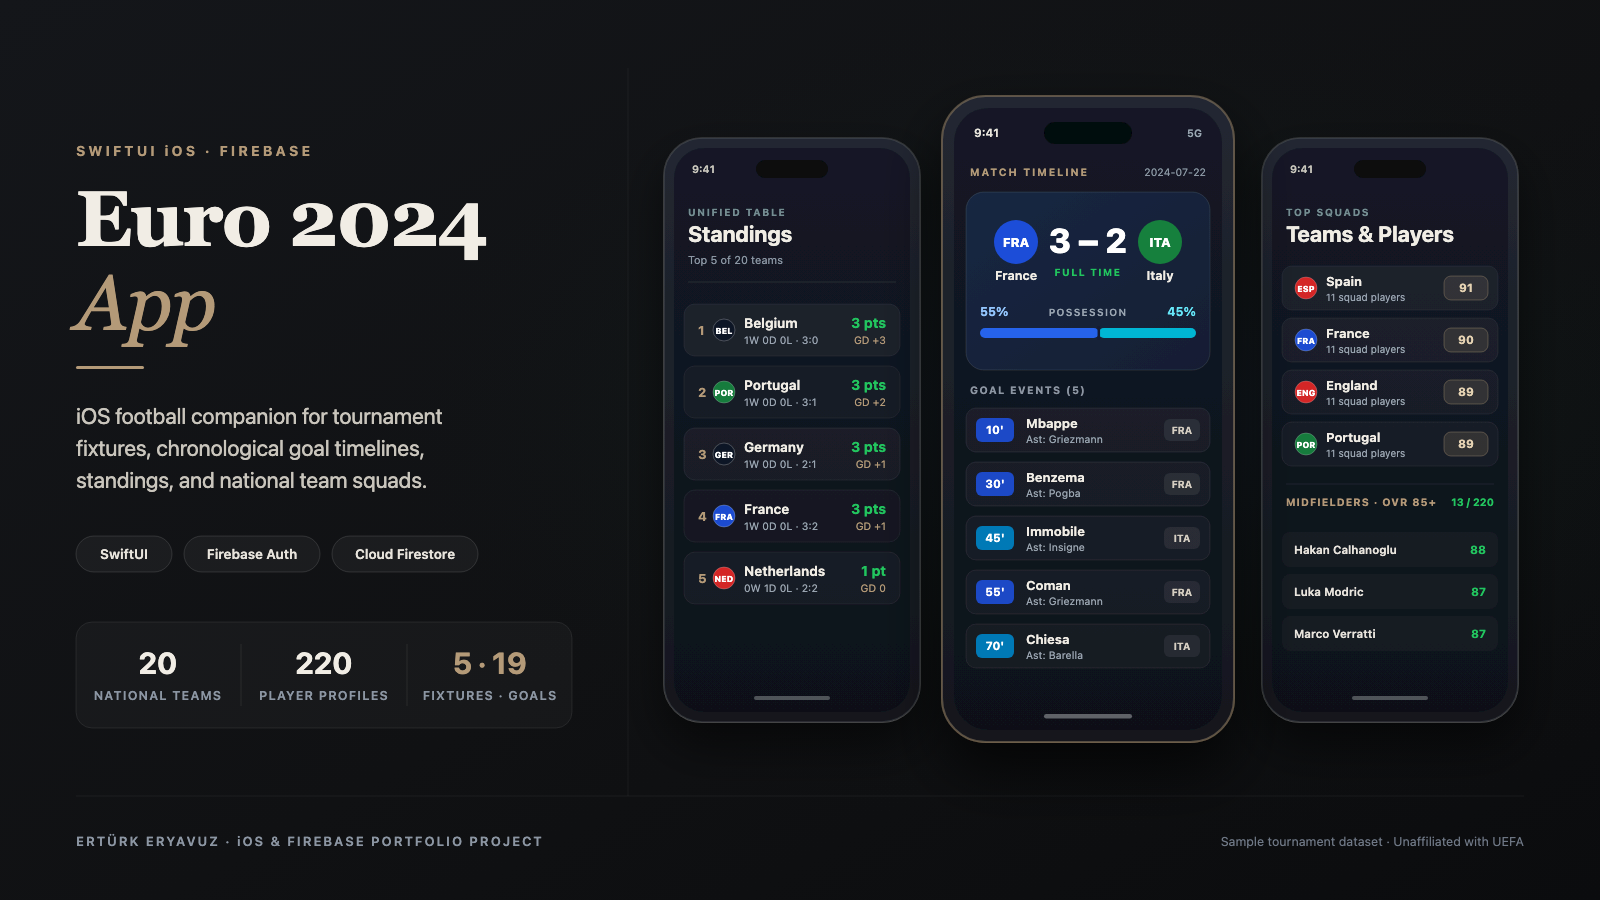
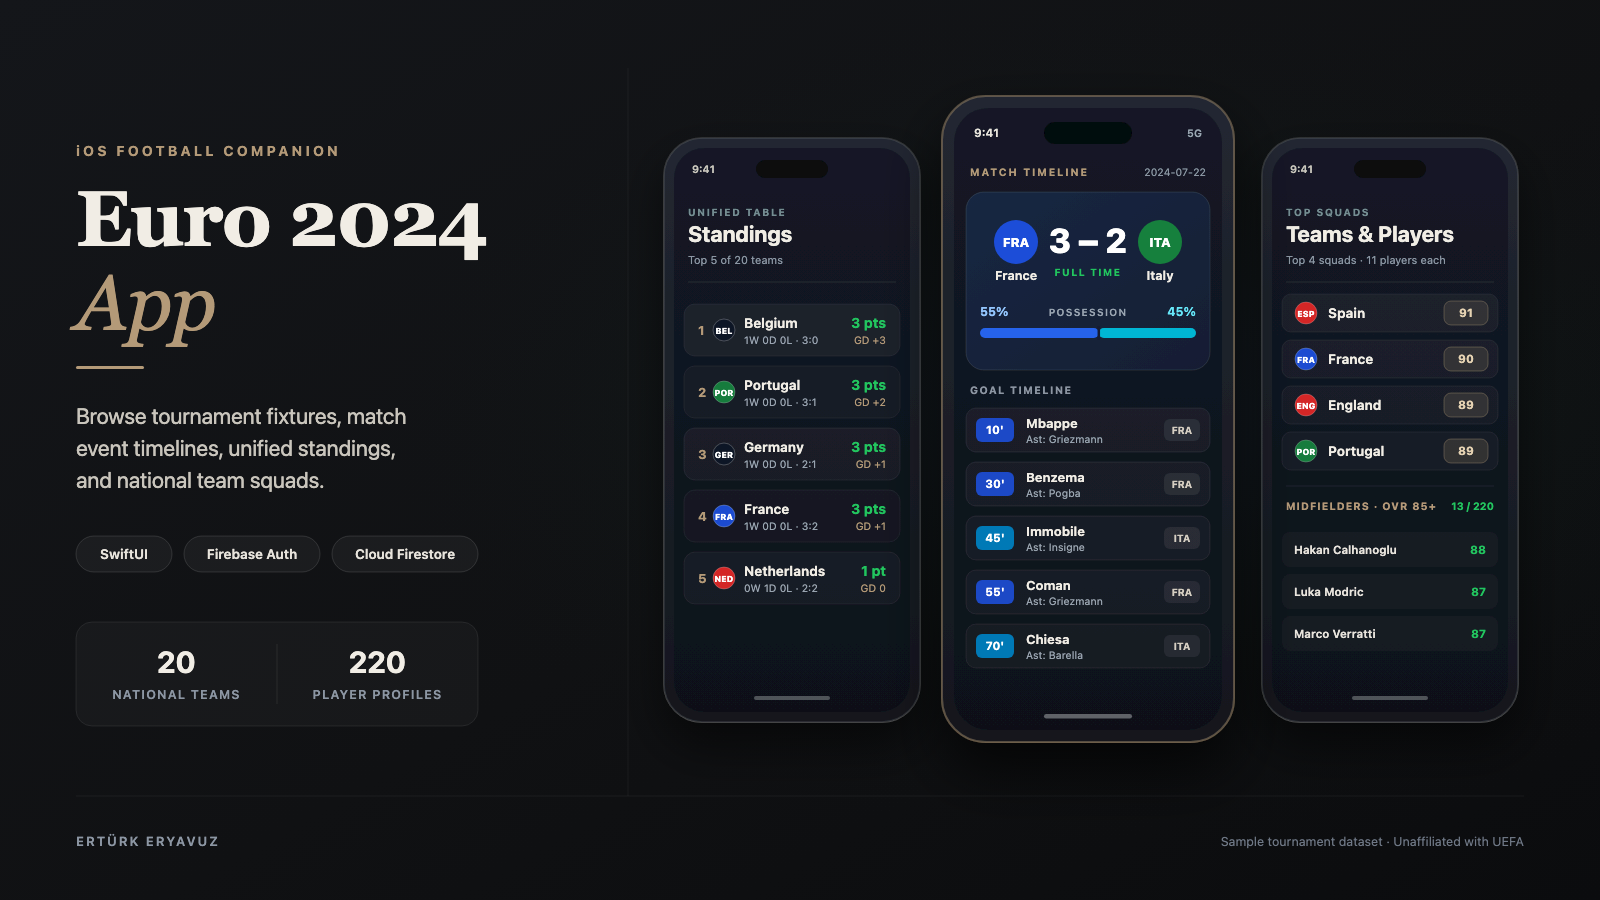
Refine project presentation

diff --git a/docs/app.js b/docs/app.js
@@ -277,17 +277,17 @@ function navigate(screen, opts = {}) {
     });
   } else if (screen === "news") {
     recordTrace({
-      source: "NewsViewModel.swift (Static Placeholder)",
+      source: "NewsViewModel.swift (Static Sample)",
       swiftView: "NewsView.swift",
-      operation: "NewsViewModel.fetchNews() [2 hardcoded items]",
+      operation: "NewsViewModel.fetchNews()",
       payload: NEWS_ITEMS,
-      note: "Preserves the exact 2 hardcoded sample items in NewsViewModel.swift without inventing a live news feed.",
+      note: "Renders the two static placeholder articles defined in NewsViewModel.swift (no external news API).",
     });
   } else if (screen === "profile") {
     recordTrace({
-      source: 'Firestore collection("users").document(uid) [Simulated]',
+      source: 'Firestore users/{uid} [Simulated]',
       swiftView: "ProfileView.swift",
-      operation: state.isLoggedIn ? "loadUserProfile() — UserDefaults hardened" : "Auth Gate (isLoggedIn == false)",
+      operation: state.isLoggedIn ? "loadUserProfile()" : "Auth Gate (Signed Out)",
       payload: state.isLoggedIn
         ? {
             name: state.profile.name,
@@ -316,14 +316,14 @@ function recordAnalyzesTrace() {
         fixture: `${TEAMS_BY_ID[m.team1_id].name} ${m.team1_score}-${m.team2_score} ${TEAMS_BY_ID[m.team2_id].name}`,
         date: m.date,
       })),
-      note: "5 bundled sample matches from euro2024_matches.json over original neon polygon backdrop (matches bg3 aesthetic).",
+      note: "Loads the 5 sample fixtures from euro2024_matches.json for MatchesView.",
     });
   } else if (state.analyzesSegment === 1) {
     const standings = computeStandings();
     recordTrace({
       source: "Combine (MatchViewModel + TeamViewModel)",
-      swiftView: "LeagueStandingView.swift + LeagueStandingViewModel.swift",
-      operation: "calculateStandings(matches: 5, teams: 20)",
+      swiftView: "LeagueStandingView.swift",
+      operation: "calculateStandings(teams: 20)",
       payload: standings.slice(0, 6).map(({ teamName, points, wins, draws, losses, goalsFor, goalsAgainst }) => ({
         teamName,
         points,
@@ -333,24 +333,24 @@ function recordAnalyzesTrace() {
         goalsFor,
         goalsAgainst,
       })),
-      note: "Source computes a single unified 20-team league table (3 pts win, 1 draw, 0 loss) rather than 6 UEFA Euro groups.",
+      note: "Computes a unified 20-team standings table (3 pts win, 1 draw, 0 loss) from the loaded fixtures.",
     });
   } else if (state.analyzesSegment === 2) {
     recordTrace({
-      source: "TeamViewModel.swift (Hardcoded sampleTeams)",
+      source: "TeamViewModel.swift (sampleTeams)",
       swiftView: "TeamsView.swift",
       operation: "TeamViewModel.fetchTeams() (20 teams)",
       payload: { count: TEAMS.length, sample: TEAMS.slice(0, 5).map(({ team_id, name, rating }) => ({ team_id, name, rating })) },
-      note: "TeamViewModel uses 20 hardcoded teams with original geometric national-color SVG badges replacing copyrighted federation crests.",
+      note: "Loads all 20 national teams and ratings from TeamViewModel with custom geometric SVG badges.",
     });
   } else {
     const filtered = getFilteredPlayers();
     recordTrace({
       source: 'Firestore collection("players") [Simulated]',
       swiftView: "MatchesTabView.swift → PlayerListView.swift",
-      operation: "3-column Player Directory (220 real players)",
+      operation: "PlayerListView (220 players)",
       payload: { total: PLAYERS.length, matching: filtered.length, filters: { ...state.filters } },
-      note: "48 featured players show verified Wikimedia Commons CC portraits; remaining squad players display team-colored initial avatars.",
+      note: "Filters all 220 squad players client-side by position, nationality, and minimum overall rating.",
     });
   }
 }
@@ -420,7 +420,7 @@ function renderLogin() {
           <input id="loginEmail" class="eu-custom-input" type="email" placeholder="Email" aria-label="Email" value="fan@euro2024demo.example" required />
           <input id="loginPassword" class="eu-custom-input" type="password" placeholder="Password" aria-label="Password" value="DemoPass2024" required />
 
-          <div class="eu-auth-meta-row" title="Non-interactive placeholder labels preserved from LoginView.swift:39-44">
+          <div class="eu-auth-meta-row" title="Non-interactive labels from LoginView">
             <span>Remember Me</span>
             <span>Forget Password?</span>
           </div>
@@ -505,7 +505,7 @@ function renderStandingsList() {
               <img class="eu-badge-40" src="${escapeHtml(s.teamLogo)}" alt="${escapeHtml(s.teamName)} badge" />
               <div style="min-width:0;flex:1">
                 <div style="font-size:0.9rem;font-weight:700">${idx + 1}. ${escapeHtml(s.teamName)}</div>
-                <div class="eu-standing-stats">${s.points} pts · W: ${s.wins} D: ${s.draws} L: ${s.losses} GF: ${s.goalsFor} GA: ${s.goalsAgainst}</div>
+                <div class="eu-standing-stats">${s.points} ${s.points === 1 ? "pt" : "pts"} · W: ${s.wins} D: ${s.draws} L: ${s.losses} GF: ${s.goalsFor} GA: ${s.goalsAgainst}</div>
               </div>
             </div>
           </div>
@@ -956,7 +956,7 @@ function render() {
   const isLight = state.screen === "news";
   iosStatusbar.classList.toggle("light-text-dark", isLight);
   homeIndicator.classList.toggle("dark", isLight);
-  btnToggleAuth.textContent = state.isLoggedIn ? "Sign Out Demo" : "Quick Demo Sign-In";
+  btnToggleAuth.textContent = state.isLoggedIn ? "Sign Out" : "Quick Sign-In";
 
   switch (state.screen) {
     case "landing": phoneBody.innerHTML = renderLandingOrMain(); break;
@@ -1089,7 +1089,7 @@ function bindEvents() {
     recordTrace({
       source: "FirebaseAuth (Simulated)",
       swiftView: "LoginView.swift → MainView.swift",
-      operation: "Login Successful (Zero password stored)",
+      operation: "signIn(withEmail:password:) → Success",
       payload: { email, isLoggedIn: true, storedPasswordInUserDefaults: false },
       note: "Simulated Firebase Auth sign-in succeeded. Password is never written to local storage.",
     });
@@ -1220,7 +1220,7 @@ const TUTORIAL_STAGES = [
       recordTrace({
         source: "FirebaseAuth (Simulated)",
         swiftView: "LoginView.swift → MainView.swift",
-        operation: "Login Successful (Zero password stored)",
+        operation: "signIn(withEmail:password:) → Success",
         payload: { email: state.email, isLoggedIn: true, storedPasswordInUserDefaults: false },
         note: "Guided tutorial signed into the local preview account without any live Firebase call.",
       });

diff --git a/docs/index.html b/docs/index.html
@@ -21,7 +21,7 @@
           <img src="assets/icons/analyzes.svg" width="30" height="30" alt="" aria-hidden="true" class="brand-emblem" />
           <div>
             <div class="brand-title">Euro2024App</div>
-            <div class="brand-sub">SwiftUI iOS &amp; Firebase Football Companion</div>
+            <div class="brand-sub">iOS Football Companion</div>
           </div>
         </div>
       </div>
@@ -31,7 +31,7 @@
           ▶ Watch Tutorial
         </button>
         <button id="btnToggleAuth" class="btn" type="button">
-          Quick Demo Sign-In
+          Quick Sign-In
         </button>
         <button id="btnResetDemo" class="btn btn-ghost" type="button">
           Reset Session
@@ -47,7 +47,7 @@
     <section class="hero-strip" aria-labelledby="heroHeading">
       <div class="hero-grid">
         <div class="hero-copy">
-          <p class="hero-kicker">SwiftUI iOS &amp; Firebase · Football Companion</p>
+          <p class="hero-kicker">iOS &amp; Firebase Project</p>
           <h1 id="heroHeading" class="hero-title">Euro 2024 <em>App</em></h1>
           <p class="hero-desc">
             An iOS football companion built with SwiftUI and Firebase for browsing match timelines, 20-team standings, national squads, and a 220-player directory. Explore the screens directly, inspect the corresponding SwiftUI views and Firestore traces, or launch the guided tutorial.
@@ -57,11 +57,11 @@
         <aside class="hero-meta" aria-label="Project summary">
           <div class="hero-meta-item">
             <span class="hero-meta-label">Stack</span>
-            <span class="hero-meta-value">SwiftUI · Firebase · Firestore</span>
+            <span class="hero-meta-value">SwiftUI · Firebase Auth · Firestore</span>
           </div>
           <div class="hero-meta-item">
             <span class="hero-meta-label">Features</span>
-            <span class="hero-meta-value">Match Timelines · Standings · 220 Players</span>
+            <span class="hero-meta-value">Match Timelines · Standings · Player Directory</span>
           </div>
           <div class="hero-meta-item">
             <span class="hero-meta-label">Preview</span>
@@ -79,7 +79,7 @@
       <button class="tour-pill" type="button" data-tour="match-detail">4. Match Timeline</button>
       <button class="tour-pill" type="button" data-tour="standings">5. Standings</button>
       <button class="tour-pill" type="button" data-tour="teams">6. Teams</button>
-      <button class="tour-pill" type="button" data-tour="players">7. Players (220)</button>
+      <button class="tour-pill" type="button" data-tour="players">7. Players</button>
       <button class="tour-pill" type="button" data-tour="news">8. News</button>
       <button class="tour-pill" type="button" data-tour="profile">9. Profile</button>
     </nav>

diff --git a/README.md b/README.md
@@ -12,8 +12,8 @@ The live GitHub Pages site provides an interactive browser preview of the mobile
 
 - **Fixtures & Match Timelines:** Browse tournament fixtures and drill into individual matches to inspect possession breakdowns and chronologically sorted goal and assist events.
 - **Unified Standings Table:** Computes points (3 for a win, 1 for a draw, 0 for a loss), win-draw-loss records, and goal difference dynamically across all 20 national teams.
-- **National Teams & Squad Drill-Down:** Explore 20 national teams with squad ratings and custom geometric monogram badges, then open any team to view its 11-player roster.
-- **220-Player Directory & Multi-Criteria Filtering:** Filter 220 footballer profiles simultaneously by position, nationality, and minimum overall rating.
+- **National Teams & Squad Drill-Down:** Explore national teams with squad ratings and custom geometric monogram badges, then open any team to view its 11-player roster.
+- **Player Directory & Multi-Criteria Filtering:** Filter 220 footballer profiles simultaneously by position, nationality, and minimum overall rating.
 - **News & User Profile:** Includes a lightweight news feed view and an authenticated profile screen for managing favorite team, player, and match preferences.
 
 ## Technology Stack
